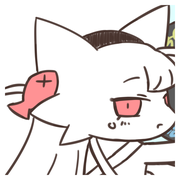
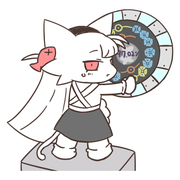
파비콘 전신 복원, /목표 명령어 3종 추가, 디스코드 임베드 이미지 추가
- 파비콘/아이콘을 얼굴 크롭에서 전신(봇 아바타와 동일 구도)으로 되돌림
- 명령어 페이지에 "목표" 카테고리 추가 (/목표 추가·삭제·목록, ko/en/ja)
- 명령어 개수 표기를 실제 항목 수에 맞춰 14로 정정 (기존 10/11 혼재)
- app/opengraph-image.png·twitter-image.png 추가 — 원본 그림 비율(1000x970) 그대로
- metadataBase·openGraph·twitter 메타데이터 추가로 디스코드 링크 임베드에 아바타 노출
  (twitter:card=summary → 배너로 늘어나지 않고 비율 유지된 썸네일로 표시)

Claude-Session: https://claude.ai/code/session_01FKxk2reo5ZBdzPFHChxDXW

diff --git a/lib/dictionary.ts b/lib/dictionary.ts
@@ -84,7 +84,7 @@ export const dictionary: Record<Lang, Dictionary> = {
       { title: "/성과", copy: "특정 날짜에 이룬 성과를 이미지로 정리해 보여줍니다." },
       { title: "/검색", copy: "입력한 조건에 맞는 곡을 검색합니다." },
     ],
-    featMore: "11개 명령어 전체 보기",
+    featMore: "14개 명령어 전체 보기",
     patchTitle: "패치노트",
     patchSub: "새로운 소식은 X에서 가장 먼저 전해드립니다.",
     patchFollow: "@carolbot_maimai 팔로우",
@@ -99,7 +99,7 @@ export const dictionary: Record<Lang, Dictionary> = {
       "캐롤봇은 기록 공유의 편의를 위해 제작한 maimai DX의 팬 프로젝트입니다. 캐롤봇에 사용된 콘텐츠의 저작권은 SEGA 및 각 소유자들에게 있습니다.",
     commands: {
       title: "슬래시 명령어",
-      sub: "캐롤봇이 제공하는 10개의 명령어입니다. 디스코드 채팅창에 / 를 입력해 사용하세요.",
+      sub: "캐롤봇이 제공하는 14개의 명령어입니다. 디스코드 채팅창에 / 를 입력해 사용하세요.",
       uiCopy:
         "디스코드의 '앱 추가'로 내 계정에 캐롤봇을 추가하면, 봇이 초대되지 않은 서버에서도 위 명령어를 그대로 사용할 수 있습니다.",
       back: "홈으로 돌아가기",
@@ -127,6 +127,14 @@ export const dictionary: Record<Lang, Dictionary> = {
             { cmd: "/곡추천", desc: "레이팅 대상곡을 바탕으로 임의의 곡 3개를 추천합니다." },
             { cmd: "/랜덤", desc: "입력한 조건에 맞는 곡을 랜덤으로 선곡합니다." },
             { cmd: "/운세", desc: "사용자마다 다른 '오늘의 곡'을 임베드로 표시합니다. (14+ ~ 15)" },
+          ],
+        },
+        {
+          name: "목표",
+          items: [
+            { cmd: "/목표 추가", desc: "여러 유형의 목표를 세울 수 있습니다." },
+            { cmd: "/목표 삭제", desc: "특정 목표를 삭제할 수 있습니다." },
+            { cmd: "/목표 목록", desc: "자신이 세운 목표와 달성률을 확인할 수 있습니다." },
           ],
         },
         {
@@ -171,7 +179,7 @@ export const dictionary: Record<Lang, Dictionary> = {
       },
       { title: "/검색 — Search", copy: "Searches for songs matching your conditions." },
     ],
-    featMore: "See all 11 commands",
+    featMore: "See all 14 commands",
     patchTitle: "Patch notes",
     patchSub: "News ships first on X.",
     patchFollow: "Follow @carolbot_maimai",
@@ -186,7 +194,7 @@ export const dictionary: Record<Lang, Dictionary> = {
       "Carolbot is a fan project built to make sharing maimai DX records easier. Copyright of the content used in Carolbot belongs to SEGA and the respective owners.",
     commands: {
       title: "Slash commands",
-      sub: "All 10 commands Carolbot provides. Type / in any Discord chat to use them.",
+      sub: "All 14 commands Carolbot provides. Type / in any Discord chat to use them.",
       uiCopy:
         "Add Carolbot to your own account with Discord’s “Add App” — then use every command above in any server, even ones the bot was never invited to.",
       back: "Back to home",
@@ -220,6 +228,14 @@ export const dictionary: Record<Lang, Dictionary> = {
               cmd: "/운세",
               desc: "Shows your personal “song of the day” as an embed. (Lv 14+ ~ 15)",
             },
+          ],
+        },
+        {
+          name: "Goals",
+          items: [
+            { cmd: "/목표 추가", desc: "Set goals of several different types." },
+            { cmd: "/목표 삭제", desc: "Delete a specific goal." },
+            { cmd: "/목표 목록", desc: "Check the goals you set and how far along they are." },
           ],
         },
         {
@@ -261,7 +277,7 @@ export const dictionary: Record<Lang, Dictionary> = {
       { title: "/성과 — 成果", copy: "指定した日の成果を画像でまとめます。" },
       { title: "/검색 — 検索", copy: "条件に合う曲を検索します。" },
     ],
-    featMore: "全11コマンドを見る",
+    featMore: "全14コマンドを見る",
     patchTitle: "パッチノート",
     patchSub: "最新情報はXでいち早くお届けします。",
     patchFollow: "@carolbot_maimai をフォロー",
@@ -276,7 +292,7 @@ export const dictionary: Record<Lang, Dictionary> = {
       "Carolbotは記録共有の利便性のために制作したmaimai DXのファンプロジェクトです。Carolbotで使用されているコンテンツの著作権はSEGA及び各権利者に帰属します。",
     commands: {
       title: "スラッシュコマンド",
-      sub: "Carolbotが提供する11のコマンドです。Discordのチャットで / を入力して使えます。",
+      sub: "Carolbotが提供する14のコマンドです。Discordのチャットで / を入力して使えます。",
       uiCopy:
         "Discordの「アプリを追加」で自分のアカウントに追加すれば、Botのいないサーバーでも上のコマンドをそのまま使えます。",
       back: "ホームへ戻る",
@@ -304,6 +320,14 @@ export const dictionary: Record<Lang, Dictionary> = {
             { cmd: "/곡추천", desc: "対象曲に基づいてランダムに3曲おすすめします。" },
             { cmd: "/랜덤", desc: "条件に合う曲をランダムに選曲します。" },
             { cmd: "/운세", desc: "ユーザーごとに異なる「今日の一曲」を表示します。（14+ ~ 15）" },
+          ],
+        },
+        {
+          name: "目標",
+          items: [
+            { cmd: "/목표 추가", desc: "さまざまな種類の目標を設定できます。" },
+            { cmd: "/목표 삭제", desc: "特定の目標を削除できます。" },
+            { cmd: "/목표 목록", desc: "自分が立てた目標と達成率を確認できます。" },
           ],
         },
         {

diff --git a/app/layout.tsx b/app/layout.tsx
@@ -4,10 +4,29 @@ import { LanguageProvider } from "@/components/LanguageProvider";
 import { Nav } from "@/components/Nav";
 import { SiteFooter } from "@/components/SiteFooter";
 
+const title = "캐롤봇 — maimai DX 기록을, 디스코드에서 바로";
+const description =
+  "캐롤봇으로 빠르게 마이마이 기록을 공유해보세요. 프로필, 레이팅 대상곡, 하루의 성과까지 슬래시 명령어 하나면 충분합니다.";
+
 export const metadata: Metadata = {
-  title: "캐롤봇 — maimai DX 기록을, 디스코드에서 바로",
-  description:
-    "캐롤봇으로 빠르게 마이마이 기록을 공유해보세요. 프로필, 레이팅 대상곡, 하루의 성과까지 슬래시 명령어 하나면 충분합니다.",
+  // Absolute URLs for the social/Discord embed images.
+  metadataBase: new URL(
+    process.env.NEXT_PUBLIC_SITE_URL ?? "https://www.team-carol.com",
+  ),
+  title,
+  description,
+  openGraph: {
+    type: "website",
+    siteName: "캐롤봇",
+    locale: "ko_KR",
+    url: "/",
+    title,
+    description,
+  },
+  // "summary" keeps the avatar as a compact thumbnail at its own aspect ratio
+  // instead of a full-width banner. The image itself comes from
+  // app/opengraph-image.png and app/twitter-image.png.
+  twitter: { card: "summary", title, description },
 };
 
 export default function RootLayout({
